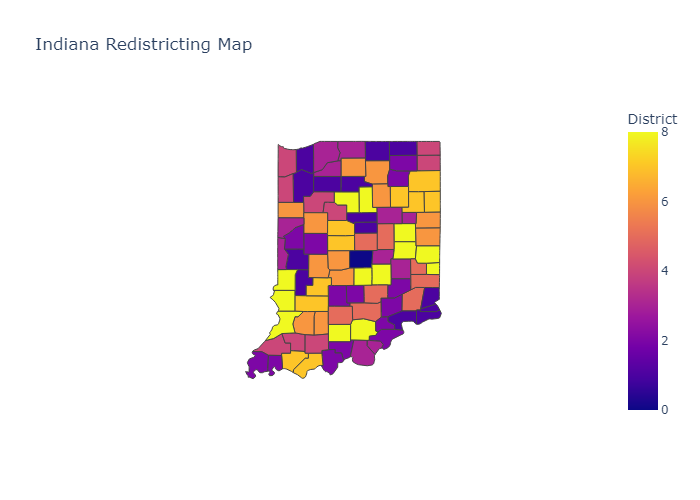
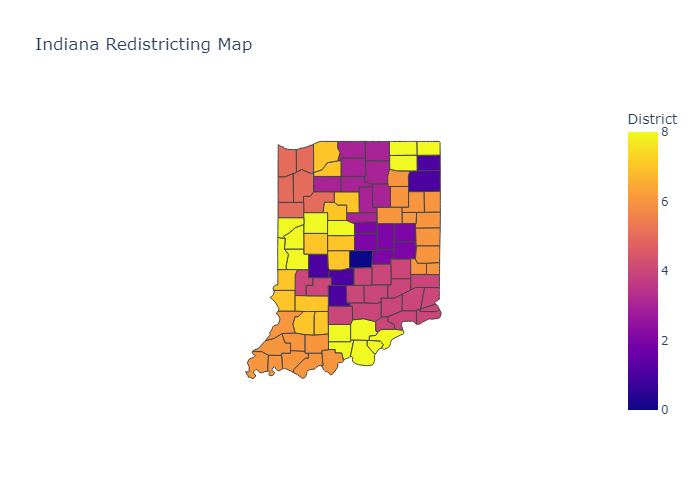
fixed obj function

Changed region(s): [[0.33, 0.27, 0.63, 0.75]]

diff --git a/redistrict_indiana.py b/redistrict_indiana.py
@@ -77,8 +77,8 @@ deviation = LpVariable.dicts("deviation", districts, lowBound=0)
 total_population = sum(county_data[c]['population'] for c in counties)
 target_pop = total_population / len(districts)
 
-# Objective function: Minimize the sum of deviations
-prob += lpSum(deviation[d] for d in districts)
+# Objective function: Minimize the sum of cut edges
+prob += lpSum(y[i, j] for i in counties for j in in_county_adj.get(i, []))
 
 # each county should be in one district only
 for c in counties:
@@ -102,7 +102,7 @@ for d in districts:
     prob += total_pop_d <= 1.10 * target_pop
 
     # Enforce white pop to be no more than 85%
-    prob += white_percentage[d] <= .85
+    prob += white_percentage[d] <= .7
 
 # cut edges constraint
 for c in counties:
